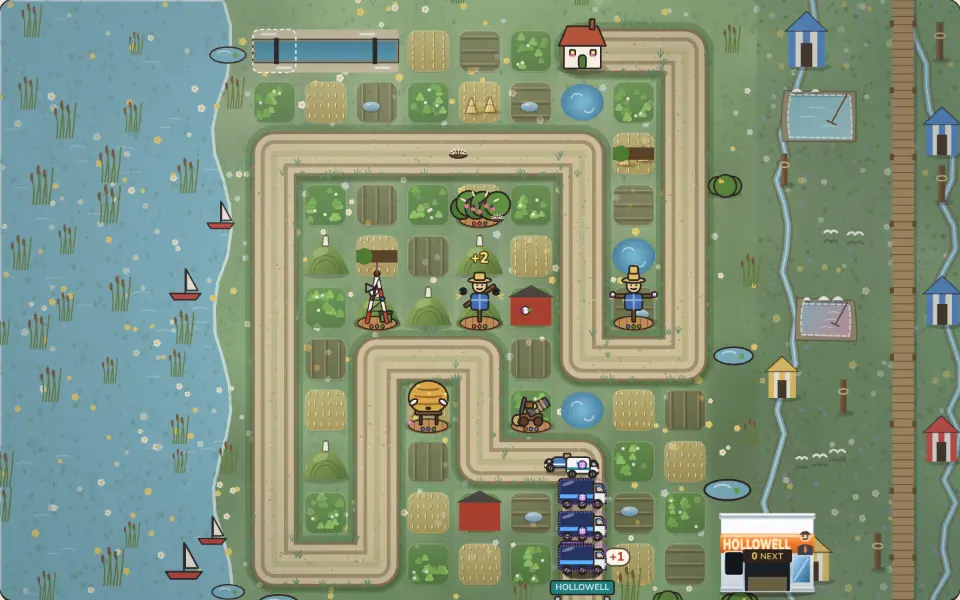
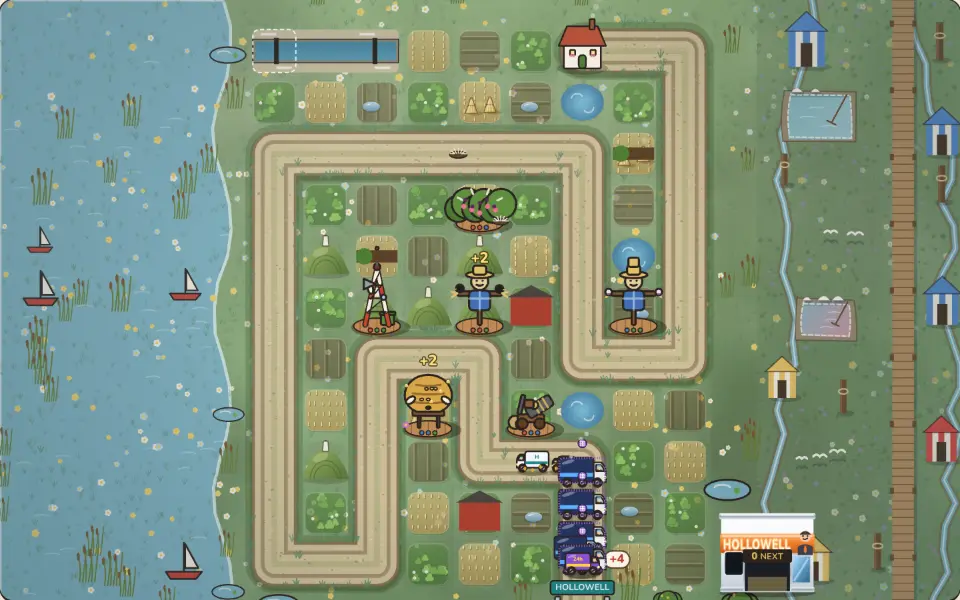
Hedgerow 2D: towers stand proud on a footing of turned earth with a contact shadow (plan 322, slice 1)
Claude-Session: https://claude.ai/code/session_01SimvMN1RHBGCWN7Eo7MzhN

diff --git a/games/hedgerow/src/sprites.ts b/games/hedgerow/src/sprites.ts
@@ -73,6 +73,27 @@ export function towerTier(look: Pick<TowerLook, "tier" | "path">): 1 | 2 | 3 {
 /** How much bigger each tier stands: a seedling, a working tower, a landmark. */
 export const TIER_SCALE = [1, 1.07, 1.15] as const;
 
+/** Plan item 322: a low mound of turned earth under a tier-1 tower, darker than any plot, with a lit top edge. */
+function drawFooting(ctx: C, x: number, base: number, s: number): void {
+  const w = s * 0.34;
+  const h = s * 0.1;
+  ctx.save();
+  ctx.fillStyle = "#4a3523";
+  ctx.beginPath();
+  ctx.ellipse(x, base + s * 0.02, w, h, 0, 0, Math.PI * 2);
+  ctx.fill();
+  ctx.fillStyle = "#6e4f33";
+  ctx.beginPath();
+  ctx.ellipse(x, base - s * 0.005, w * 0.92, h * 0.78, 0, 0, Math.PI * 2);
+  ctx.fill();
+  ctx.strokeStyle = "rgba(255,226,170,0.35)";
+  ctx.lineWidth = Math.max(1, s * 0.016);
+  ctx.beginPath();
+  ctx.ellipse(x, base - s * 0.005, w * 0.92, h * 0.78, 0, Math.PI * 1.08, Math.PI * 1.92);
+  ctx.stroke();
+  ctx.restore();
+}
+
 /**
  * Plan item 19: what a tower stands on says its tier at a glance. Tier 1 stands on the bed; tier 2 on a plank deck;
  * tier 3 on a dressed stone drum with a gold band.
@@ -150,7 +171,11 @@ export function drawTower(ctx: C, look: TowerLook, x: number, y: number, s: numb
   const base = y + s * 0.3;
   const tier = towerTier(look);
   const k = TIER_SCALE[tier - 1] ?? 1;
-  groundShadow(ctx, x, base, s * (tier === 1 ? 0.36 : 0.46), s * (tier === 1 ? 0.11 : 0.15));
+  // Plan item 322: a contact shadow cast away from the scene's light (top left), dark enough to read on any plot...
+  groundShadow(ctx, x + s * 0.06, base + s * 0.02, s * (tier === 1 ? 0.4 : 0.48), s * (tier === 1 ? 0.13 : 0.16), 0.36);
+  // ...and a tier-1 tower stands on a footing of turned earth, so it reads as set on the plot, not printed on it
+  // (a pond is the ground itself).
+  if (tier === 1 && look.kind !== "pond") drawFooting(ctx, x, base, s);
   drawPlinth(ctx, tier, x, base, s);
   // Idle: a slow breath. Fire: a quick squash and stretch as it lets go.
   const kick = !look.still && look.fired < 0.15 ? Math.sin((look.fired / 0.15) * Math.PI) : 0;

diff --git a/games/hedgerow/src/render.ts b/games/hedgerow/src/render.ts
@@ -43,6 +43,7 @@ import { gateQueue, type GateQueue } from "./gatequeue";
 import { FarmFolk, type Folk } from "./farmfolk";
 import { drawFolk } from "./folkart";
 import {
+
   INK,
   drawEnemy,
   drawPropIcon,
@@ -57,6 +58,9 @@ import {
   star,
   drawThornPile,
 } from "./sprites";
+
+/** Plan item 322: a tower on the field is drawn this much over its cell's size. */
+const FIELD_TOWER = 1.2;
 
 interface Shot {
   kind: TowerKind;
@@ -827,7 +831,8 @@ export class Renderer {
             },
             X(tw.col + 0.5),
             Y(tw.row + 0.5),
-            s,
+            // Plan item 322: on the field a tower stands 1.2x its cell, so it rises proud over the plot's edge
+            s * FIELD_TOWER,
             t + tw.id * 0.37,
           );
           if (tw.crown !== undefined) {

diff --git a/docs/plan/two-week-plan.md b/docs/plan/two-week-plan.md
@@ -3055,7 +3055,7 @@ The items come from fresh-eyes audits on 2026-11-01 and 2026-11-02 (items 25-32:
 - **Accept:** each mugshot shaded (40%+ luminance between lit cheek and shadow side); the five silhouettes pairwise distinct (IoU 0.7 or less, as item 278); no live render on title load (baked or cached), cathode-perf in budget (alone); cathode-front, title-diorama pass; shots P and D and the case board.
 - **Size:** 2
 
-## 322. [ ] Hedgerow 2D: towers that stand on the field, with a shadow and an idle *(lane B, in progress)*
+## 322. [ ] Hedgerow 2D: towers that stand on the field, with a shadow and an idle *(lane B, in progress)* *(slice 1, 2026-11-11 15:35 lane B: on the field a tower is drawn at 1.2x its cell, so it rises proud of its plot. A tier-1 tower stands on a low mound of turned earth (dark soil, lit top edge; not under a pond), over a contact shadow cast down-right at 36% (was 25%, centred, smaller). Tiers 2 and 3 keep their deck and drum. Key art re-shot; sprites-all (41) and hedgerow-critique, field, tower-lineup, tray, threat and catdock pass at P and D (53). Shots scratchpad t322-{before,after}-{D,P}. Left: one idle per tower id with a recording-canvas test, measuring 60 px+ at D, reduced motion)*
 - **Why:** `plan1111b/hedge-l21-2d-D` (545-612 x 552-618): the Scarecrow is a 50 px flat sticker in a dashed ring, no shadow, no base, close in tone to its stubble plot, where the tray's crate art (1108-1412 x 85-380) is richer; `hedge-l34-2d-D` (520-585 x 380-450) the same.
 - **Build:** each 2D tower a standing three-quarter miniature on a small footing (turned earth or brick) with a soft contact shadow toward the scene's light, about 1.25x so it rises over the plot's edge; one cheap idle each (sails turn, bees round the skep, the coat stirs, the mast blinks), none under reduced motion; tiers dress the footing.
 - **Accept:** every tower 60 px+ tall at D and proud of its plot; a contact shadow 15%+ darker than the plot under each; each tower id's idle draws differently over two frames (a recording-canvas test like hedgerow-sprites-all); reduced motion still; tray, field, critique specs pass; key art re-shot; shots of a sandbox field with every tower at P and D.
